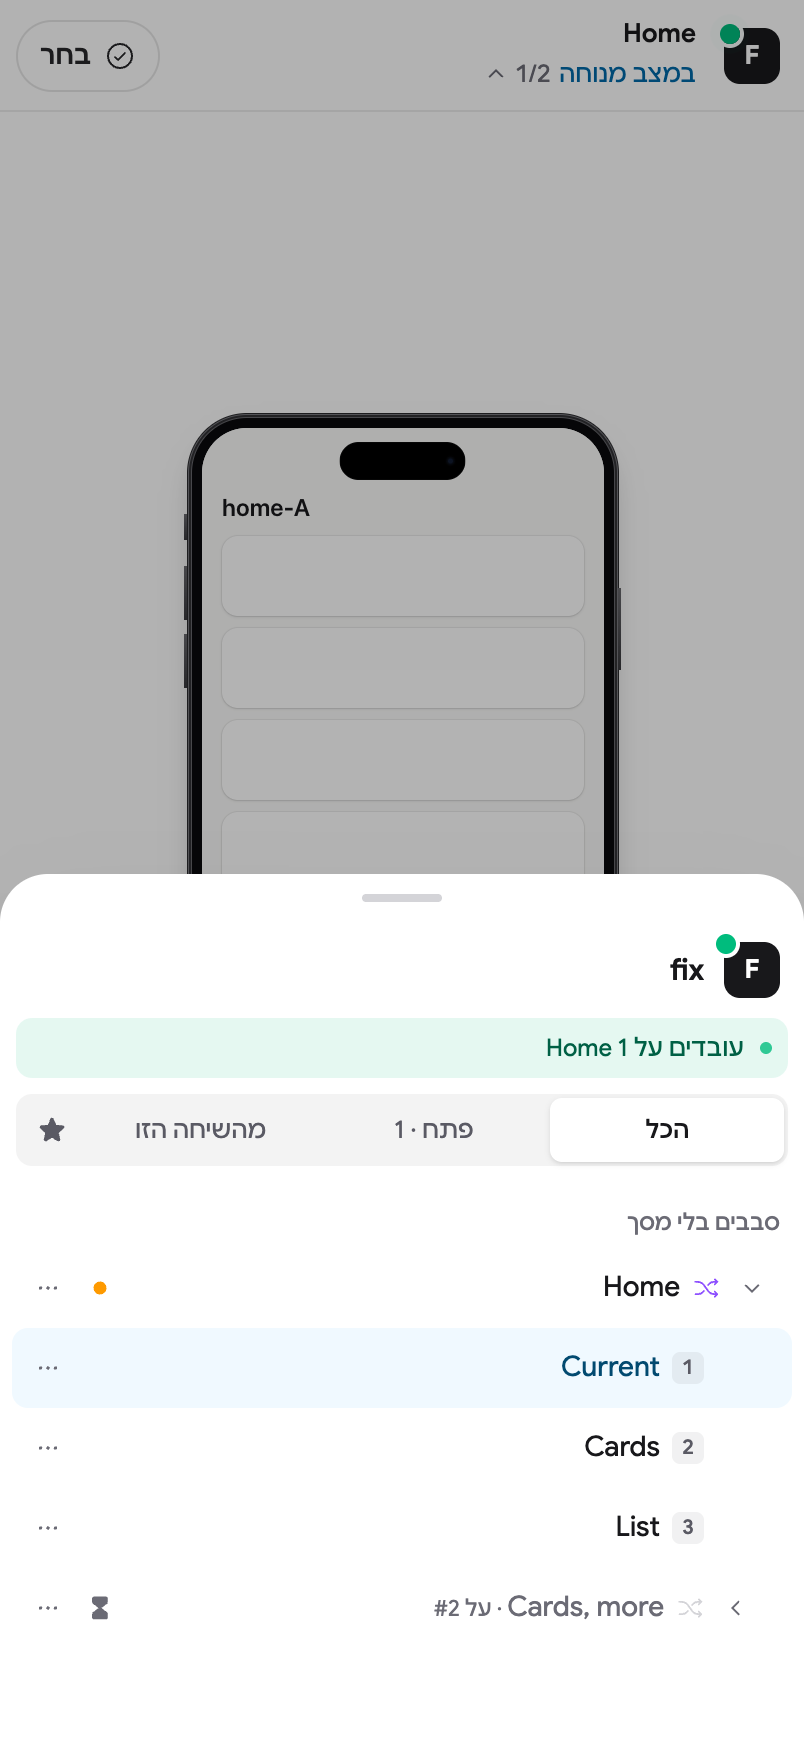
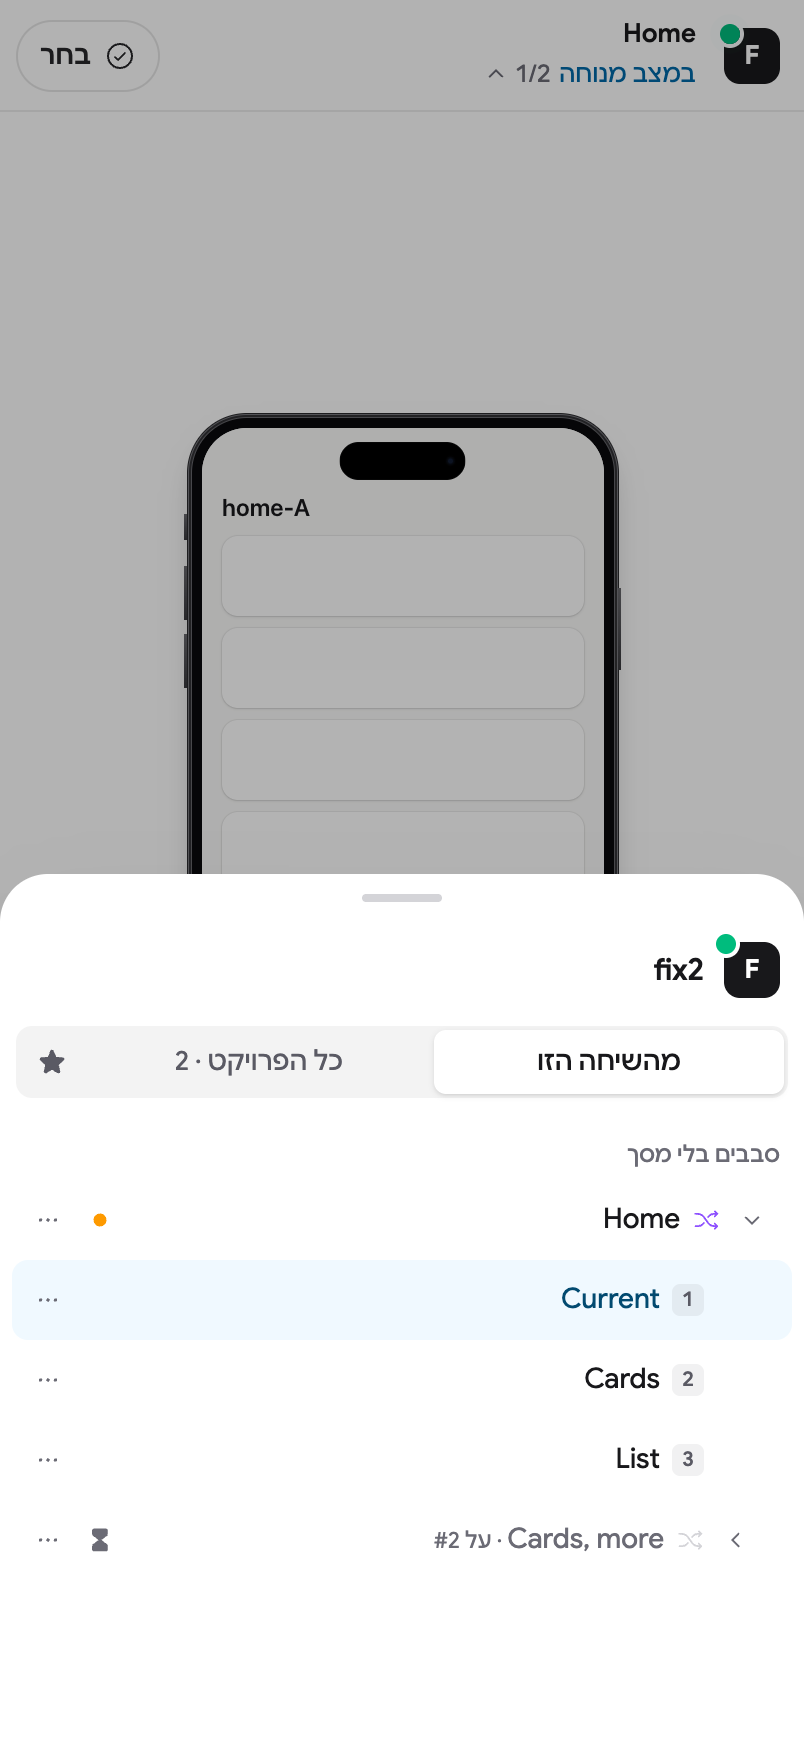
feat: Conversation first is the default
The page opens on this conversation, with the scope tabs, in a browser that hasn't chosen.
Settings or ?conv=0 turns it off, kept in the browser. It's no longer called a preview.

diff --git a/app/shell/settings.ts b/app/shell/settings.ts
@@ -17,7 +17,7 @@ type Props = {
   sidebar: boolean
   /** The project tree instead of the columns (the map prototype's #1), while it is new. */
   tree: boolean
-  /** Conversation first (preview), offered while the tree is on. */
+  /** Conversation first, offered while the tree is on. */
   conv: boolean
   review: boolean
   stack: boolean
@@ -144,7 +144,7 @@ function Settings(p: Props) {
       h('div', { className: 'space-y-3' }, h('div', null, h('p', { className: 'text-[13px] font-medium' }, t('Overview layout')), h('p', { className: muted }, t('How variants appear in overviews.'))), choices(t('Overview layout'), [choice('layout', 'grid', t('Grid'), !p.stack, () => p.onLayout(false), 'grid'), choice('layout', 'stack', t('List'), p.stack, () => p.onLayout(true), 'rows')])),
       toggle('sidebar', t('Show sidebar'), t('Keep prototype navigation open on wide screens.'), p.sidebar, p.onSidebar),
       toggle('tree', t('Project tree'), t('The sidebar shows designs, screens and explorations as one tree.'), p.tree, p.onTree),
-      ...p.tree ? [toggle('conv', t('Conversation first (preview)'), t('The page opens on this conversation, with a gallery and past conversations.'), p.conv, p.onConv)] : [],
+      ...p.tree ? [toggle('conv', t('Conversation first'), t('The page opens on this conversation, with a gallery and past conversations.'), p.conv, p.onConv)] : [],
       toggle('review', t('Show review panel'), t('Keep Try it open on wide screens when available.'), p.review, p.onReview),
       h('div', { className: 'flex flex-wrap items-center justify-between gap-3 border-t border-black/[.06] pt-4 dark:border-white/10' }, h('p', { className: muted }, t('Restore sidebar and column widths.')), h('button', { type: 'button', 'data-setting-reset': '', onClick: p.onResetWidths, className: button }, t('Reset widths'))))
     : category === 'session' ? h('div', { className: 'space-y-5' },

diff --git a/app/shell/shell.ts b/app/shell/shell.ts
@@ -598,12 +598,12 @@ export function createShell(root: HTMLElement, opts: { mount: Mount; protos: Pro
   const treeAsked = new URLSearchParams(location.search).get('tree')
   if (treeAsked === '1' || treeAsked === '0') remember('proto-tree', treeAsked)
   let treeOn = !framed && localStorage.getItem('proto-tree') !== '0'
-  // Conversation first (a preview, ?conv=1 or Settings, kept in this browser): the page is scoped to
+  // Conversation first (the default; ?conv=0 or Settings turns it off, kept in this browser): the page is scoped to
   // this conversation, the map has a gallery and lists past conversations. Off, it shows the whole
   // project, the tree has its filters and the map is the canvas.
   const convAsked = new URLSearchParams(location.search).get('conv')
   if (convAsked === '1' || convAsked === '0') remember('proto-conv', convAsked)
-  let convOn = localStorage.getItem('proto-conv') === '1'
+  let convOn = localStorage.getItem('proto-conv') !== '0'
   const treeWatchers = new Set<() => void>()
   let treeSnap: TreeInput | null = null
   const placeRoute = () => st.place.view === 'variant' ? `${st.place.proto}/${st.place.variant}` : st.place.view === 'proto' ? `${st.place.proto}/` : ''

diff --git a/app/shell/i18n/he/tree.ts b/app/shell/i18n/he/tree.ts
@@ -3,7 +3,7 @@
 // screen "מסך"; variant numbers and placeholders stay as they are.
 export default {
   'Project tree': 'עץ הפרויקט',
-  'Conversation first (preview)': 'השיחה קודם (תצוגה מקדימה)',
+  'Conversation first': 'השיחה קודם',
   'The page opens on this conversation, with a gallery and past conversations.': 'הדף נפתח על השיחה הזו, עם גלריה ושיחות קודמות.',
   'The sidebar shows designs, screens and explorations as one tree.': 'הסרגל מציג עיצובים, מסכים וסבבים כעץ אחד.',
   'Working on {name}': 'עובדים על {name}',

diff --git a/app/shell/map/index.tsx b/app/shell/map/index.tsx
@@ -30,7 +30,7 @@ export type MapInput = {
   working?: string
   /** The route in Focus, drawn in place on its board: the map stays, the page's view of it sits in the board's slot. */
   focus?: string
-  /** Conversation first (a preview): the gallery and its switch. Off, the map is the canvas only. */
+  /** Conversation first: the gallery and its switch. Off, the map is the canvas only. */
   conv?: boolean
   /** What protos holds (shell.ts scope): 'all', 'favs' or 'conv:<conversation>'; me: this conversation. */
   scope?: string; me?: string

diff --git a/app/shell/tree/index.tsx b/app/shell/tree/index.tsx
@@ -17,7 +17,7 @@ export type TreeInput = {
   place: string
   /** This conversation ('' or null where there is none, as a share's viewer). */
   me: string | null
-  /** Conversation first (a preview): the page's scope replaces the tree's own filters. */
+  /** Conversation first: the page's scope replaces the tree's own filters. */
   conv?: boolean
   /** What the page shows (shell.ts scope): 'all', 'favs' or 'conv:<conversation>'. */
   scope?: string

diff --git a/SKILL.md b/SKILL.md
@@ -176,7 +176,7 @@ that prototype instead (when the user means that one). The conversation that las
 conversation; a comment on a prototype whose owner isn't listening wakes the conversation that
 listens and was seen last. `proto ls --mine` lists what this conversation made or joined.
 
-With **Conversation first** on (a preview: Settings › Browsing, or `?conv=1`, kept in the browser),
+With **Conversation first** on (the default; Settings › Browsing or `?conv=0` turns it off, kept in the browser),
 the page opens on **this conversation**: with the project tree on, the sidebar's top row (This
 conversation | Whole project · N | ★) scopes the tree, the gallery and the map together. The gallery
 lists the earlier conversations as one line each, and opening one scopes the page to it, with a way
